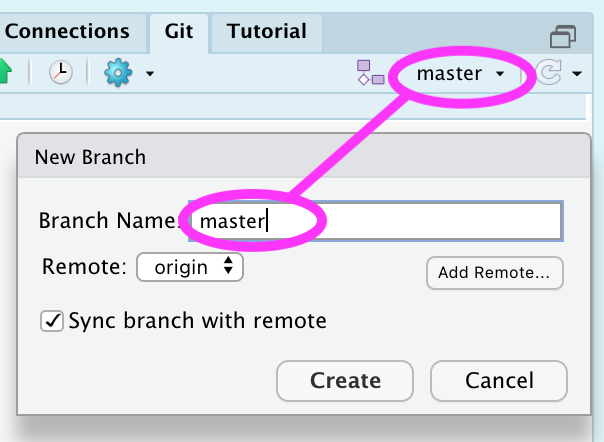
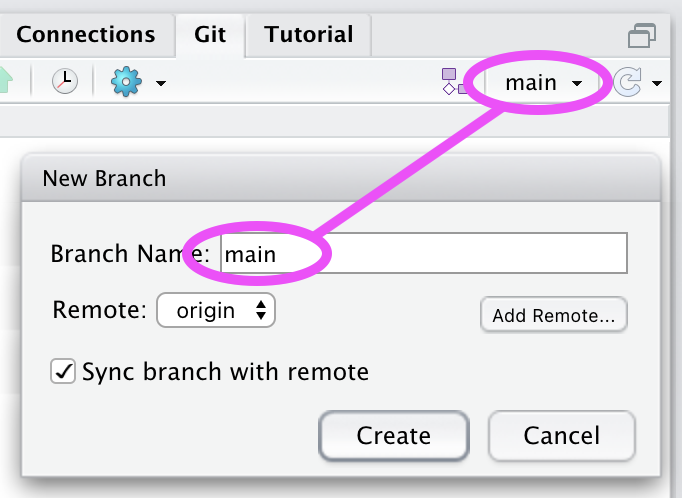
Built site for writingRPackages: 1.1.0@1d0d36f

Changed region(s): [[0.0, 0.0, 1.0, 1.0]]

diff --git a/notes.html b/notes.html
@@ -140,12 +140,13 @@ myDemoPkg
 <div class="section level2">
 <h2 id="syncing-to-github">Syncing to GitHub<a class="anchor" aria-label="anchor" href="#syncing-to-github"></a></h2>
 <ul><li>Why GitHub?
-<ul><li>
+<ul><li><p>note: other cloud services exist (e.g. GitLab) – we restrict ourself to GitHub in this course</p></li>
+<li>
 <p>Cloud-based backup of your new package</p>
 <ul><li>private repos are only visible to whom you give access to</li>
 </ul></li>
 <li>
-<p>Supports installation from GitHub</p>
+<p>Supports installation from R</p>
 <div class="sourceCode" id="cb4"><pre class="downlit sourceCode r">
 <code class="sourceCode R"><span class="fu">remotes</span><span class="fu">::</span><span class="fu"><a href="https://remotes.r-lib.org/reference/install_github.html" class="external-link">install_github</a></span><span class="op">(</span><span class="st">"{username}/{repo}"</span><span class="op">)</span>
 <span class="co"># remotes::install_github("ha0ye/myDemoPkg")</span></code></pre></div>
@@ -183,7 +184,7 @@ myDemoPkg
 </ul></li>
 <li>Setup (GitHub, manual)
 <ul><li>Choose the same “Branch Name”.<br>
-(Select “Overwrite” at the warning about a local branch already existing.) <img src="rstudio_branch-name.png" title="A cropped screenshot of the 'Git' Pane in the RStudio interface, showing a panel with tabs for 'Files', 'Connections', 'Git', and 'Tutorial'. The 'Git' tab is selected, showing another row of buttons, including a text label of 'Master' with a pulldown menu icon. The screenshot also contains a dialog box, labeled 'New Branch', with a textbox 'Branch Name' also containing 'Master', a selection menu labeled 'Remote', a button to 'Add Remote...', a checked check box labeled 'Sync box with remote', and two buttons labeled 'Create' and 'Cancel'." alt="A cropped screenshot of the 'Git' Pane in the RStudio interface, showing a panel with tabs for 'Files', 'Connections', 'Git', and 'Tutorial'. The 'Git' tab is selected, showing another row of buttons, including a text label of 'Master' with a pulldown menu icon. The screenshot also contains a dialog box, labeled 'New Branch', with a textbox 'Branch Name' also containing 'Master', a selection menu labeled 'Remote', a button to 'Add Remote...', a checked check box labeled 'Sync box with remote', and two buttons labeled 'Create' and 'Cancel'." width="70%"></li>
+(Select “Overwrite” at the warning about a local branch already existing.) <img src="rstudio_branch-name.png" title="A cropped screenshot of the 'Git' Pane in the RStudio interface, showing a panel with tabs for 'Files', 'Connections', 'Git', and 'Tutorial'. The 'Git' tab is selected, showing another row of buttons, including a text label 'Main' with a pulldown menu icon. The screenshot also contains a dialog box, labeled 'New Branch', with a textbox 'Branch Name' also containing 'Main', a selection menu labeled 'Remote', a button to 'Add Remote...', a checked check box labeled 'Sync box with remote', and two buttons labeled 'Create' and 'Cancel'." alt="A cropped screenshot of the 'Git' Pane in the RStudio interface, showing a panel with tabs for 'Files', 'Connections', 'Git', and 'Tutorial'. The 'Git' tab is selected, showing another row of buttons, including a text label 'Main' with a pulldown menu icon. The screenshot also contains a dialog box, labeled 'New Branch', with a textbox 'Branch Name' also containing 'Main', a selection menu labeled 'Remote', a button to 'Add Remote...', a checked check box labeled 'Sync box with remote', and two buttons labeled 'Create' and 'Cancel'." width="70%"></li>
 </ul></li>
 <li>Demo</li>
 <li>Workflow
@@ -302,7 +303,7 @@ check out <a href="https://testthat.r-lib.org/" class="external-link"><code>test
 <li>want a nice website for your package?<br>
 check out <a href="https://testthat.r-lib.org/" class="external-link"><code>pkgdown</code></a>
 </li>
-<li>want tests and the pkgdown website to run automatically on github? check out <a href="https://github.com/r-lib/actions/tree/master/examples" class="external-link">github actions</a>
+<li>want tests and the pkgdown website to run automatically on github? check out <a href="https://github.com/r-lib/actions/tree/main/examples" class="external-link">github actions</a>
 </li>
 </ul><div class="sourceCode" id="cb14"><pre class="downlit sourceCode r">
 <code class="sourceCode R"><span class="fu">usethis</span><span class="fu">::</span><span class="fu">use_github_action</span><span class="op">(</span><span class="st">"check-release"</span><span class="op">)</span></code></pre></div>

diff --git a/slides.html b/slides.html
@@ -125,9 +125,10 @@ class: inverse, middle, center
 ---
 # Why GitHub?
 
+* note: other cloud services exist (e.g. GitLab) -- we restrict ourself to GitHub in this course
 * Cloud-based backup of your new package
   - private repos are only visible to whom you give access to
-* Supports installation from GitHub
+* Supports installation from R
   
   ```r
   remotes::install_github("{username}/{repo}")
@@ -183,7 +184,7 @@ class: inverse, middle, center
 
 * Choose the same "Branch Name".  
 (Select "Overwrite" at the warning about a local branch already existing.)
-&lt;img src="rstudio_branch-name.png" title="A cropped screenshot of the 'Git' Pane in the RStudio interface, showing a panel with tabs for 'Files', 'Connections', 'Git', and 'Tutorial'. The 'Git' tab is selected, showing another row of buttons, including a text label of 'Master' with a pulldown menu icon. The screenshot also contains a dialog box, labeled 'New Branch', with a textbox 'Branch Name' also containing 'Master', a selection menu labeled 'Remote', a button to 'Add Remote...', a checked check box labeled 'Sync box with remote', and two buttons labeled 'Create' and 'Cancel'." alt="A cropped screenshot of the 'Git' Pane in the RStudio interface, showing a panel with tabs for 'Files', 'Connections', 'Git', and 'Tutorial'. The 'Git' tab is selected, showing another row of buttons, including a text label of 'Master' with a pulldown menu icon. The screenshot also contains a dialog box, labeled 'New Branch', with a textbox 'Branch Name' also containing 'Master', a selection menu labeled 'Remote', a button to 'Add Remote...', a checked check box labeled 'Sync box with remote', and two buttons labeled 'Create' and 'Cancel'." width="70%" /&gt;
+&lt;img src="rstudio_branch-name.png" title="A cropped screenshot of the 'Git' Pane in the RStudio interface, showing a panel with tabs for 'Files', 'Connections', 'Git', and 'Tutorial'. The 'Git' tab is selected, showing another row of buttons, including a text label 'Main' with a pulldown menu icon. The screenshot also contains a dialog box, labeled 'New Branch', with a textbox 'Branch Name' also containing 'Main', a selection menu labeled 'Remote', a button to 'Add Remote...', a checked check box labeled 'Sync box with remote', and two buttons labeled 'Create' and 'Cancel'." alt="A cropped screenshot of the 'Git' Pane in the RStudio interface, showing a panel with tabs for 'Files', 'Connections', 'Git', and 'Tutorial'. The 'Git' tab is selected, showing another row of buttons, including a text label 'Main' with a pulldown menu icon. The screenshot also contains a dialog box, labeled 'New Branch', with a textbox 'Branch Name' also containing 'Main', a selection menu labeled 'Remote', a button to 'Add Remote...', a checked check box labeled 'Sync box with remote', and two buttons labeled 'Create' and 'Cancel'." width="70%" /&gt;
 
 ---
 class: middle, center
@@ -346,7 +347,7 @@ class: inverse, middle, center
 * want a nice website for your package?  
   check out [`pkgdown`](https://testthat.r-lib.org/)
 * want tests and the pkgdown website to run automatically on github?
-  check out [github actions](https://github.com/r-lib/actions/tree/master/examples)
+  check out [github actions](https://github.com/r-lib/actions/tree/main/examples)
 
 ```r
 usethis::use_github_action("check-release")
